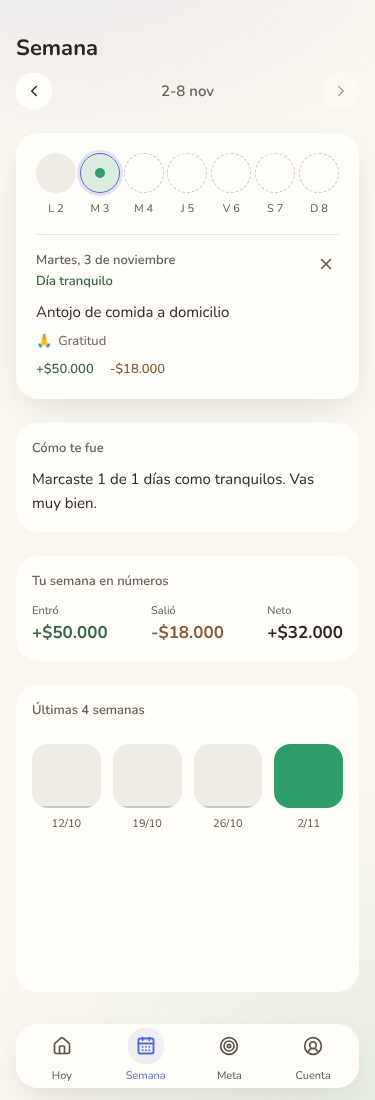
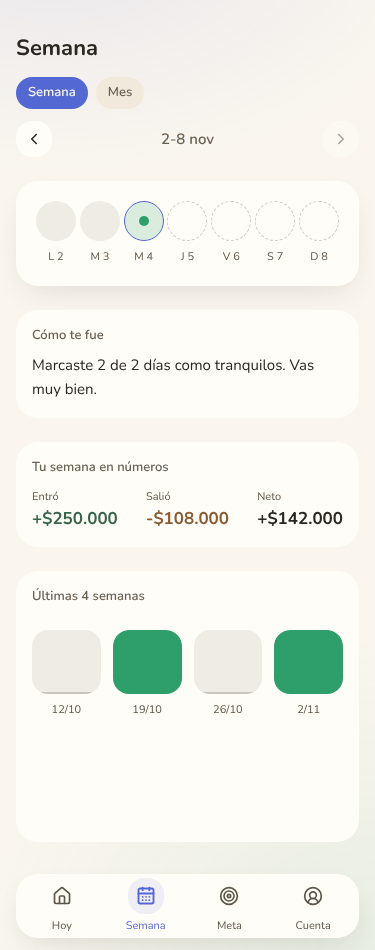
feat: vista mensual de entradas/gastos + ajustes de visibilidad
- Pestañas Semana/Mes en la pantalla Semana, con navegación por mes
- Resumen de entró/salió/neto del mes elegido
- Botón y montos de "cuánto entró y salió hoy" más visibles en Hoy

diff --git a/app/app/semana/page.tsx b/app/app/semana/page.tsx
@@ -22,10 +22,27 @@ function useVariantes(): { contenedor: Variants; item: Variants } {
   };
 }
 
+const MESES_LARGO = [
+  'enero', 'febrero', 'marzo', 'abril', 'mayo', 'junio',
+  'julio', 'agosto', 'septiembre', 'octubre', 'noviembre', 'diciembre',
+];
+
+/** Año/mes (0-indexado) + etiqueta legible a partir de un desplazamiento en meses desde hoy —
+ * mismo patrón que diasDeLaSemana() pero para meses (vista "Mes" pedida por la usuaria). */
+function mesDesdeOffset(offsetMeses: number): { anio: number; mes: number; etiqueta: string } {
+  const hoy = new Date();
+  const base = new Date(hoy.getFullYear(), hoy.getMonth() + offsetMeses, 1);
+  const anio = base.getFullYear();
+  const mes = base.getMonth();
+  return { anio, mes, etiqueta: `${MESES_LARGO[mes]} ${anio}` };
+}
+
 export default function Semana() {
   const [estado, setEstado] = useState<EstadoApp | null>(null);
   const [error, setError] = useState(false);
+  const [vista, setVista] = useState<'semana' | 'mes'>('semana');
   const [offset, setOffset] = useState(0);
+  const [offsetMes, setOffsetMes] = useState(0);
   const [diaSeleccionado, setDiaSeleccionado] = useState<string | null>(null);
   const { contenedor, item } = useVariantes();
 
@@ -73,32 +90,138 @@ export default function Semana() {
   const totalGastos = dias.reduce((suma, d) => suma + (d.gastos ?? 0), 0);
   const hayMontos = dias.some((d) => d.entradas !== null || d.gastos !== null);
 
+  const { anio: anioMes, mes, etiqueta: etiquetaMes } = mesDesdeOffset(offsetMes);
+  const prefijoMes = `${anioMes}-${String(mes + 1).padStart(2, '0')}`;
+  const checkinsDelMes = estado.checkins.filter((c) => c.fecha.startsWith(prefijoMes));
+  const tranquilosMes = checkinsDelMes.filter((c) => c.estado === 'tranquilo').length;
+  const alertasMes = checkinsDelMes.filter((c) => c.estado === 'alerta').length;
+  const marcadosMes = tranquilosMes + alertasMes;
+  const entradasMes = checkinsDelMes.reduce((suma, c) => suma + (c.entradas ?? 0), 0);
+  const gastosMes = checkinsDelMes.reduce((suma, c) => suma + (c.gastos ?? 0), 0);
+  const hayMontosMes = checkinsDelMes.some((c) => c.entradas !== null || c.gastos !== null);
+
   return (
     <motion.main variants={contenedor} initial="hidden" animate="visible" className="flex flex-1 flex-col gap-6 px-4 pb-8 pt-8">
       <motion.header variants={item}>
         <h1 className="text-[22px] font-bold [font-family:var(--font-display)]">Semana</h1>
-        <div className="mt-2 flex items-center justify-between">
-          <button
-            type="button"
-            onClick={() => setOffset((o) => o - 1)}
-            aria-label="Semana anterior"
-            className="flex size-9 items-center justify-center rounded-[var(--radius-button)] bg-[var(--surface)] [touch-action:manipulation]"
-          >
-            <ChevronLeft size={18} strokeWidth={2} color="var(--text-primary)" aria-hidden="true" />
-          </button>
-          <span className="text-[15px] font-semibold text-[var(--text-secondary)]">{formatearRangoSemana(fechas)}</span>
-          <button
-            type="button"
-            onClick={() => setOffset((o) => Math.min(0, o + 1))}
-            disabled={offset === 0}
-            aria-label="Semana siguiente"
-            className="flex size-9 items-center justify-center rounded-[var(--radius-button)] bg-[var(--surface)] disabled:opacity-40 [touch-action:manipulation]"
-          >
-            <ChevronRight size={18} strokeWidth={2} color="var(--text-primary)" aria-hidden="true" />
-          </button>
+
+        <div className="mt-3 flex gap-2" role="tablist" aria-label="Ver por semana o por mes">
+          {(['semana', 'mes'] as const).map((v) => {
+            const activo = vista === v;
+            return (
+              <button
+                key={v}
+                type="button"
+                role="tab"
+                aria-selected={activo}
+                onClick={() => setVista(v)}
+                className="flex h-8 items-center rounded-full px-3 text-[13px] font-semibold [touch-action:manipulation]"
+                style={{
+                  background: activo ? 'var(--accent)' : 'var(--surface-2)',
+                  color: activo ? 'var(--bg)' : 'var(--text-secondary)',
+                }}
+              >
+                {v === 'semana' ? 'Semana' : 'Mes'}
+              </button>
+            );
+          })}
         </div>
+
+        {vista === 'semana' ? (
+          <div className="mt-3 flex items-center justify-between">
+            <button
+              type="button"
+              onClick={() => setOffset((o) => o - 1)}
+              aria-label="Semana anterior"
+              className="flex size-9 items-center justify-center rounded-[var(--radius-button)] bg-[var(--surface)] [touch-action:manipulation]"
+            >
+              <ChevronLeft size={18} strokeWidth={2} color="var(--text-primary)" aria-hidden="true" />
+            </button>
+            <span className="text-[15px] font-semibold text-[var(--text-secondary)]">{formatearRangoSemana(fechas)}</span>
+            <button
+              type="button"
+              onClick={() => setOffset((o) => Math.min(0, o + 1))}
+              disabled={offset === 0}
+              aria-label="Semana siguiente"
+              className="flex size-9 items-center justify-center rounded-[var(--radius-button)] bg-[var(--surface)] disabled:opacity-40 [touch-action:manipulation]"
+            >
+              <ChevronRight size={18} strokeWidth={2} color="var(--text-primary)" aria-hidden="true" />
+            </button>
+          </div>
+        ) : (
+          <div className="mt-3 flex items-center justify-between">
+            <button
+              type="button"
+              onClick={() => setOffsetMes((o) => o - 1)}
+              aria-label="Mes anterior"
+              className="flex size-9 items-center justify-center rounded-[var(--radius-button)] bg-[var(--surface)] [touch-action:manipulation]"
+            >
+              <ChevronLeft size={18} strokeWidth={2} color="var(--text-primary)" aria-hidden="true" />
+            </button>
+            <span className="text-[15px] font-semibold capitalize text-[var(--text-secondary)]">{etiquetaMes}</span>
+            <button
+              type="button"
+              onClick={() => setOffsetMes((o) => Math.min(0, o + 1))}
+              disabled={offsetMes === 0}
+              aria-label="Mes siguiente"
+              className="flex size-9 items-center justify-center rounded-[var(--radius-button)] bg-[var(--surface)] disabled:opacity-40 [touch-action:manipulation]"
+            >
+              <ChevronRight size={18} strokeWidth={2} color="var(--text-primary)" aria-hidden="true" />
+            </button>
+          </div>
+        )}
       </motion.header>
 
+      {vista === 'mes' ? (
+        <>
+          <motion.section variants={item} className="rounded-[var(--radius-card)] bg-[var(--surface)] p-4">
+            <h2 className="text-[13px] font-semibold text-[var(--text-secondary)]">Cómo te fue</h2>
+            <p className="mt-2 text-[15px] leading-relaxed text-[var(--text-primary)]">
+              {marcadosMes === 0
+                ? 'Aún no marcaste ningún día de este mes. Hazlo desde Hoy.'
+                : alertasMes === 0
+                  ? `Marcaste ${tranquilosMes} de ${marcadosMes} días como tranquilos este mes. Vas muy bien.`
+                  : tranquilosMes === 0
+                    ? `Marcaste ${alertasMes} de ${marcadosMes} días de alerta este mes — es información, no un juicio.`
+                    : `${tranquilosMes} días tranquilos y ${alertasMes} de alerta este mes. Notar la diferencia ya es la mitad del trabajo.`}
+            </p>
+          </motion.section>
+
+          {hayMontosMes ? (
+            <motion.section variants={item} className="rounded-[var(--radius-card)] bg-[var(--surface)] p-4">
+              <h2 className="text-[13px] font-semibold text-[var(--text-secondary)]">Tu mes en números</h2>
+              <div className="mt-3 flex items-center justify-between">
+                <div>
+                  <p className="text-[11px] font-medium text-[var(--text-tertiary)]">Entró</p>
+                  <p className="text-[17px] font-bold text-[var(--accent-2-text)] [font-variant-numeric:tabular-nums]">
+                    +${entradasMes.toLocaleString('es')}
+                  </p>
+                </div>
+                <div>
+                  <p className="text-[11px] font-medium text-[var(--text-tertiary)]">Salió</p>
+                  <p className="text-[17px] font-bold text-[var(--accent-3-text)] [font-variant-numeric:tabular-nums]">
+                    -${gastosMes.toLocaleString('es')}
+                  </p>
+                </div>
+                <div>
+                  <p className="text-[11px] font-medium text-[var(--text-tertiary)]">Neto</p>
+                  <p className="text-[17px] font-bold text-[var(--text-primary)] [font-variant-numeric:tabular-nums]">
+                    {entradasMes - gastosMes >= 0 ? '+' : '-'}${Math.abs(entradasMes - gastosMes).toLocaleString('es')}
+                  </p>
+                </div>
+              </div>
+            </motion.section>
+          ) : (
+            <motion.section variants={item} className="flex-1 rounded-[var(--radius-card)] bg-[var(--surface)] p-4">
+              <h2 className="text-[13px] font-semibold text-[var(--text-secondary)]">Tu mes en números</h2>
+              <p className="mt-2 text-[15px] leading-relaxed text-[var(--text-secondary)]">
+                Aquí vas a ver cuánto entró y salió este mes apenas lo anotes un par de veces desde Hoy.
+              </p>
+            </motion.section>
+          )}
+        </>
+      ) : (
+      <>
       <motion.section variants={item} className="rounded-[var(--radius-card)] bg-[var(--surface)] p-5 shadow-[var(--shadow-2)]">
         <div className="flex justify-between">
           {dias.map(({ iso, estadoDia, esFuturo }, i) => {
@@ -242,6 +365,8 @@ export default function Semana() {
       <motion.section variants={item} className="flex-1 rounded-[var(--radius-card)] bg-[var(--surface)] p-4">
         <TendenciaSemanas estado={estado} />
       </motion.section>
+      </>
+      )}
     </motion.main>
   );
 }

diff --git a/ESTADO.md b/ESTADO.md
@@ -1,6 +1,21 @@
 # ESTADO — Respira
 Última actualización: 2026-11-04 | Sesión actual: 7
 
+⏸ CHECKPOINT (2026-11-04, tarde): dos ajustes más pedidos por la usuaria tras probar la app real:
+1. El botón y los montos de "Cuánto entró y salió hoy" (Hoy) eran muy chicos — ahora el botón de
+   abrirlo es de ancho completo con ícono, y los montos ya guardados se ven más grandes (19px) en
+   una tarjeta propia. Solo cambio visual, sin tocar datos.
+2. Pidió poder comparar mes a mes (no solo semana a semana). Agregado: pestañas "Semana"/"Mes" en
+   /app/semana. La vista "Mes" (elegida por la usuaria entre esa y una gráfica — prefirió el
+   resumen simple) tiene su propia navegación (← mes →) y muestra "Cómo te fue" + "Tu mes en
+   números" (entró/salió/neto) para el mes que se esté viendo — sin la grilla de días ni la
+   gráfica de 4 semanas, que solo tienen sentido por semana.
+Cambiado en: `app/app/page.tsx` (botón/montos más visibles) y `app/app/semana/page.tsx` (pestañas
++ vista de mes). No tocó la base de datos — no hay migración nueva. Verificado: tsc ✓ build ✓ ·
+renderizado real a 375px con datos de 2 meses distintos, navegando entre ellos — capturas en
+`docs/revisiones/semana-375.png` (pestaña Semana) y `mes-375.png` (pestaña Mes, con cifras reales
+del mes). Pendiente: que la usuaria lo revise en la app real.
+
 ⏸ CHECKPOINT (2026-11-04): la app ahora admite VARIAS metas de ahorro a la vez (antes solo una
 por usuaria — pedido explícito de la usuaria). La pantalla "Tu meta" ahora es:
 - Con 0 metas: el formulario de siempre, prellenado con la respuesta del onboarding (sin cambios).

diff --git a/docs/revisiones/paywall-veredicto.md b/docs/revisiones/paywall-veredicto.md
@@ -331,3 +331,11 @@ ninguno de los cuatro — sigue usando solo `components/landing/ui`, `components
 `components/RespiraMark`. El cambio de esta sesión (varias metas de ahorro a la vez, con su
 lista y su detalle) vive por completo en la pantalla "Tu meta" y en la lógica de datos
 compartida, sin tocar el paywall. Cero impacto; la certificación LISTA sigue vigente.
+
+## Trigésima re-verificación (2026-11-04, tarde — botón de montos más visible + pestañas Semana/Mes)
+
+El hook marcó `app/app/page.tsx` y `app/app/semana/page.tsx` como más nuevos que este veredicto.
+Mismo caso de siempre: `app/paywall/page.tsx` no importa ninguno de los dos. Los dos cambios de
+esta tarde (hacer más visible el botón de entradas/gastos en Hoy, y agregar la pestaña "Mes" en
+Semana) viven solo en esas dos pantallas de la app interna. Cero impacto; la certificación LISTA
+sigue vigente.
